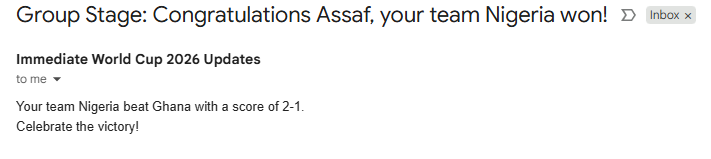
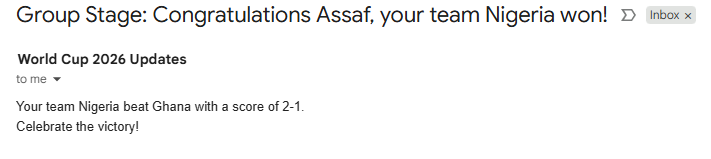
removing all traces of affiliation with Immediate Media from the website

Changed region(s): [[0.0, 0.327, 0.3713, 0.4277]]

diff --git a/docs/scripts/utils/email-templates.js b/docs/scripts/utils/email-templates.js
@@ -10,6 +10,19 @@ constructor(winner, loser, matchId, stage) {
   this.stage = stage;
   }
 
+  // Get the next stage based on the current stage
+  getNextStage(currentStage) {
+    const stageProgression = {
+      'Round of 32': 'Round of 16',
+      'Round of 16': 'Quarter Final',
+      'Quarter Final': 'Semi Final',
+      'Semi Final': 'Final',
+      'Final': null,
+      'Third Place Playoff': null
+    };
+    return stageProgression[currentStage] || null;
+  }
+
   // Fetch the email of the user associated with a team
   async getTeamEmailAndName(teamAbbreviation) {
     const countryMap = await fetchCountryMap();
@@ -125,10 +138,17 @@ buildEmailTemplate(
   // Build the winner's email template if the winner's email exists
   if ((winnersScore > losersScore) && winnerEmail) {
     let isFinal = stage === 'Final';
+    let isThirdPlacePlayoff = stage === 'Third Place Playoff';
     let winnerSubject;
     let winnerMessage;
+    const nextStage = this.getNextStage(stage);
+    const nextStageMessage = nextStage ? `\n\nYour team is advancing to the ${nextStage}!` : '';
+    const placementMessage = isThirdPlacePlayoff ? '\n\nYour team has finished in 3rd place in the World Cup!' : '';
+    
     if (stage === 'Final') {
       winnerSubject = `${stage}: Congratulations ${winnerOwnersName}, your team ${winningCountryFullName} are the World Cup Champions!`;
+    } else if (isThirdPlacePlayoff) {
+      winnerSubject = `Third Place: Congratulations ${winnerOwnersName}, your team ${winningCountryFullName} finished in 3rd place!`;
     } else {
       winnerSubject = `${stage}: Congratulations ${winnerOwnersName}, your team ${winningCountryFullName} won!`;
     }
@@ -138,7 +158,7 @@ buildEmailTemplate(
           `${isFinal ? `You have won the prize pot, which stands at £${prizePotSum}!` : ''}
 Your team ${winningCountryFullName} beat ${losingCountryFullName} after extra time was added with a score of ${winnersScore}-${losersScore}.
 Celebrate the victory!
-The match ended after 90 minutes in a tie with a score of ${regularTimeTeam1Score}-${regularTimeTeam2Score}.`;
+The match ended after 90 minutes in a tie with a score of ${regularTimeTeam1Score}-${regularTimeTeam2Score}.${nextStageMessage}${placementMessage}`;
         break;
       case 'extraTimeWasTied':
         winnerMessage =
@@ -146,13 +166,13 @@ The match ended after 90 minutes in a tie with a score of ${regularTimeTeam1Scor
 Your team ${winningCountryFullName} beat ${losingCountryFullName} after an intense penalty shootouts with a score of ${winnersScore}-${losersScore}.
 Celebrate the victory!
 The match ended after 90 minutes in a tie with a score of ${regularTimeTeam1Score}-${regularTimeTeam2Score}.
-After 120 minutes the match was still tied at ${extraTimeTeam1Score}-${extraTimeTeam2Score}.`;
+After 120 minutes the match was still tied at ${extraTimeTeam1Score}-${extraTimeTeam2Score}.${nextStageMessage}${placementMessage}`;
         break;
       default:
         winnerMessage =
           `${isFinal ? `You have won the prize pot, which stands at £${prizePotSum}!` : ''}
 Your team ${winningCountryFullName} beat ${losingCountryFullName} with a score of ${winnersScore}-${losersScore}.
-Celebrate the victory!`;
+Celebrate the victory!${nextStageMessage}${placementMessage}`;
     }
 
     emailTemplates.winner = {
@@ -166,8 +186,13 @@ Celebrate the victory!`;
   if ((losersScore < winnersScore) && loserEmail) {
     let loserSubject
     let loserMessage;
+    let isThirdPlacePlayoff = stage === 'Third Place Playoff';
+    const tournamentEndMessage = stage === 'Final' ? '\nYour tournament has come to an end, but you made it all the way to the Final!' : isThirdPlacePlayoff ? '\nYour team has finished in 4th place in the World Cup.' : '\nUnfortunately, your tournament has come to an end, but there\'s always next time!';
+    
     if (stage === 'Final') {
       loserSubject = `${stage}: Commiserations ${loserOwnersName}, your team ${losingCountryFullName} lost the World Cup Final!`;
+    } else if (isThirdPlacePlayoff) {
+      loserSubject = `Fourth Place: Commiserations ${loserOwnersName}, your team ${losingCountryFullName} finished in 4th place!`;
     } else {
       loserSubject = `${stage}: Better Luck Next Time, ${loserOwnersName}, your team ${losingCountryFullName} lost!`;
     }
@@ -176,19 +201,19 @@ Celebrate the victory!`;
         loserMessage =
           `Your team ${losingCountryFullName} fought hard but lost to ${winningCountryFullName} after extra time with a score of ${losersScore}-${winnersScore}.
 Keep your spirits high!
-The match ended after 90 minutes in a tie with a score of ${regularTimeTeam1Score}-${regularTimeTeam2Score}.`;
+The match ended after 90 minutes in a tie with a score of ${regularTimeTeam1Score}-${regularTimeTeam2Score}.${tournamentEndMessage}`;
         break;
       case 'extraTimeWasTied':
         loserMessage =
           `Your team ${losingCountryFullName} fought hard but lost to ${winningCountryFullName} after an intense penalty shootout with the score of ${losersScore}-${winnersScore}.
 Keep your spirits high!
 The match ended after 90 minutes in a tie with a score of ${regularTimeTeam1Score}-${regularTimeTeam2Score}.
-After 120 minutes the match was still tied at ${extraTimeTeam1Score}-${extraTimeTeam2Score}.`;
+After 120 minutes the match was still tied at ${extraTimeTeam1Score}-${extraTimeTeam2Score}.${tournamentEndMessage}`;
         break;
       default:
         loserMessage =
           `Your team ${losingCountryFullName} fought hard but lost to ${winningCountryFullName} with a score of ${losersScore}-${winnersScore}.
-Keep your spirits high!`;
+Keep your spirits high!${tournamentEndMessage}`;
     }
 
     emailTemplates.loser = {
@@ -200,11 +225,18 @@ Keep your spirits high!`;
 
   // Handle the case of a draw
   if (winnersScore === losersScore) {
+    const nextStage = this.getNextStage(stage);
+    const nextStageMessage = nextStage ? `\n\nYour team is advancing to the ${nextStage}!` : '';
+    let isThirdPlacePlayoff = stage === 'Third Place Playoff';
+    const thirdPlaceMessage = isThirdPlacePlayoff ? '\n\nYour team has finished in 3rd place in the World Cup!' : '';
+    const fourthPlaceMessage = isThirdPlacePlayoff ? '\n\nYour team has finished in 4th place in the World Cup.' : '';
+    const tournamentEndMessage = stage === 'Final' ? '\nYour tournament has come to an end, but you made it all the way to the Final!' : '\nUnfortunately, your tournament has come to an end, but there\'s always next time!';
+    
     if (winnerEmail) {
       const drawSubjectWinner = `${stage}: It's a Draw! ${winningCountryFullName} vs ${losingCountryFullName}`;
       const drawMessageWinner =
       `Your team ${winningCountryFullName} drew against ${losingCountryFullName} with a score of ${winnersScore}-${losersScore}.
-Keep up the great effort!`;
+Keep up the great effort!${nextStageMessage}${thirdPlaceMessage}`;
 
       emailTemplates.winner = {
         email: winnerEmail,
@@ -217,7 +249,7 @@ Keep up the great effort!`;
       const drawSubjectLoser = `${stage}: It's a Draw! ${losingCountryFullName} vs ${winningCountryFullName}`;
       const drawMessageLoser =
       `Your team ${losingCountryFullName} drew against ${winningCountryFullName} with a score of ${winnersScore}-${losersScore}.
-Keep up the great effort!`;
+Keep up the great effort!${fourthPlaceMessage}`;
 
       emailTemplates.loser = {
         email: loserEmail,

diff --git a/docs/styles/style.css b/docs/styles/style.css
@@ -735,10 +735,12 @@ button.submit-button:disabled:hover {
 
 /* Make images responsive */
 img {
-    grid-column: 2 / span 4;
+    grid-column: 1 / span 6;
     height: auto;
     display: grid;
     margin: 0 auto;
+    max-width: 600px;
+    width: 100%;
 }
 
 #content-placeholder {

diff --git a/README.md b/README.md
@@ -1,8 +1,8 @@
-# World Cup 2026 - Immediate's Team Draw Website
+# World Cup 2026 - Team Draw Website
 
-This is the Immediate website for the 2026 World Cup games.
+This is the website for the 2026 World Cup games.
 
-Here you could register and contribute a small sum (£5) to a shared pot and get random assignment of a team out of the 32 countries participating. Whoever's team is the winner will get the whole amount.
+Here you could register and contribute a small sum (£5) to a shared pot and get random assignment of a team out of the 48 countries participating. Whoever's team is the winner will get the whole amount.
 
 The website will also provide details on the different matches in the different stages of the tournament, from the group stage all the way to the final.
 
@@ -24,7 +24,7 @@ Only after Assaf verified you paid, you'll be given permission to login.
 
 ## Login
 
-To login, you'll need to enter your registered email address in the login form. A verification email will be sent with a code (which expires after 10 minutes) to the registered email inbox with a 6 digit code. You'll need to enter it into the form and only then you will be able to login (once logged in, you won't need to login again on that browser, unless you clear your cookies).
+To login, you'll need to enter your registered email address in the login form. A verification email will be sent with a code (which expires after 10 minutes) to the registered email inbox with a 6 digit code. You'll need to enter it into the form and only then you will be able to login (once logged in, you won't need to login again on that browser).
 
 <img src="docs/images/login-email%20verification.png" alt="Login - Email Verification">
 
@@ -72,7 +72,7 @@ The tables are ordered according to the FIFA ranking when they drew it. The rank
 
 <img src="docs/images/group-stage-table.png" alt="Group Stage Table">
 
-If you hover over the official FIFA 3 letter name code, you can see the name of the country.
+If you hover over the official FIFA 3 letter name code, you can see the full name of the country.
 
 <img src="docs/images/group-stage-table-country-name.png" alt="Group Stage Table - Country Name">
 
@@ -100,7 +100,7 @@ In this stage, there can only be a winning team or a losing team and matches can
 
 ## Email Notifications
 
-When you register you gave us permission to send you emails regarding match results of your drawn team. Those emails are light in text and will have all of the information you'll need. They'll be appropriately named and be personalised to you and your team and stage in the competitions.
+When you registered, you gave permission to send you emails regarding match results of your drawn team. Those emails are light in text and will have all of the information you'll need. They'll be appropriately named and be personalised to you and your team and stage in the competitions.
 
 For example:
 
